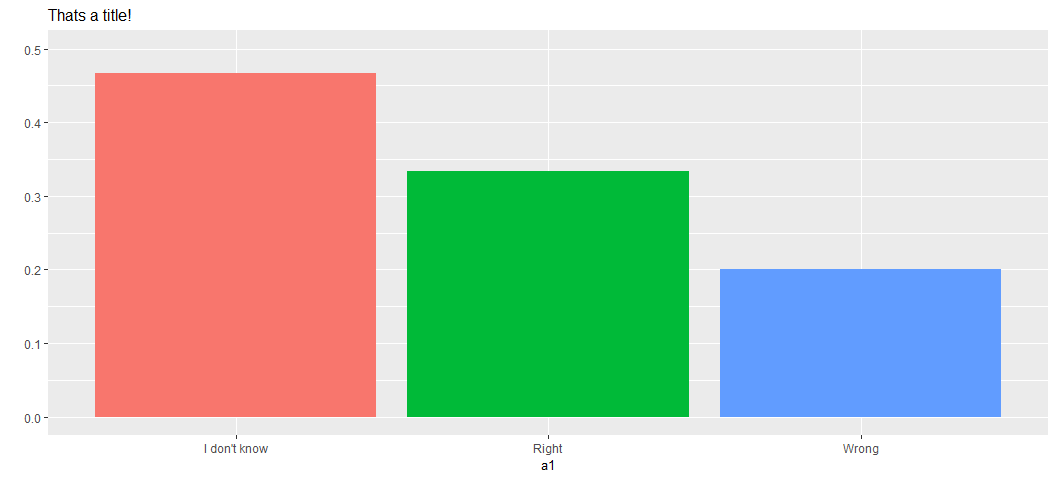
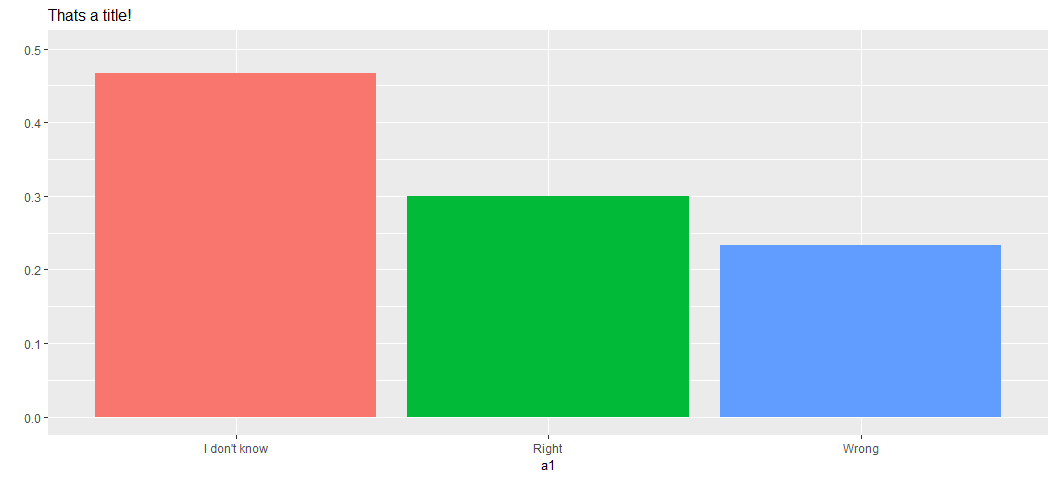
Fix coord

Changed region(s): [[0.6562, 0.5, 0.9688, 0.5625], [0.375, 0.3438, 0.6562, 0.4062]]

diff --git a/README.md b/README.md
@@ -106,6 +106,8 @@ data %>%
   as.data.frame() %>% 
   ggplot(aes(x = !!sym(x), fill = !!sym(x))) +
     geom_bar(aes(y = (..count..)/sum(..count..))) +
+    coord_cartesian(ylim = c(0, 0.8)) +
+    ylab("") +
     labs(title = nbreak(string = y, n = 6)) +
     theme(legend.position = "none",
           title = element_text(size = 10))
